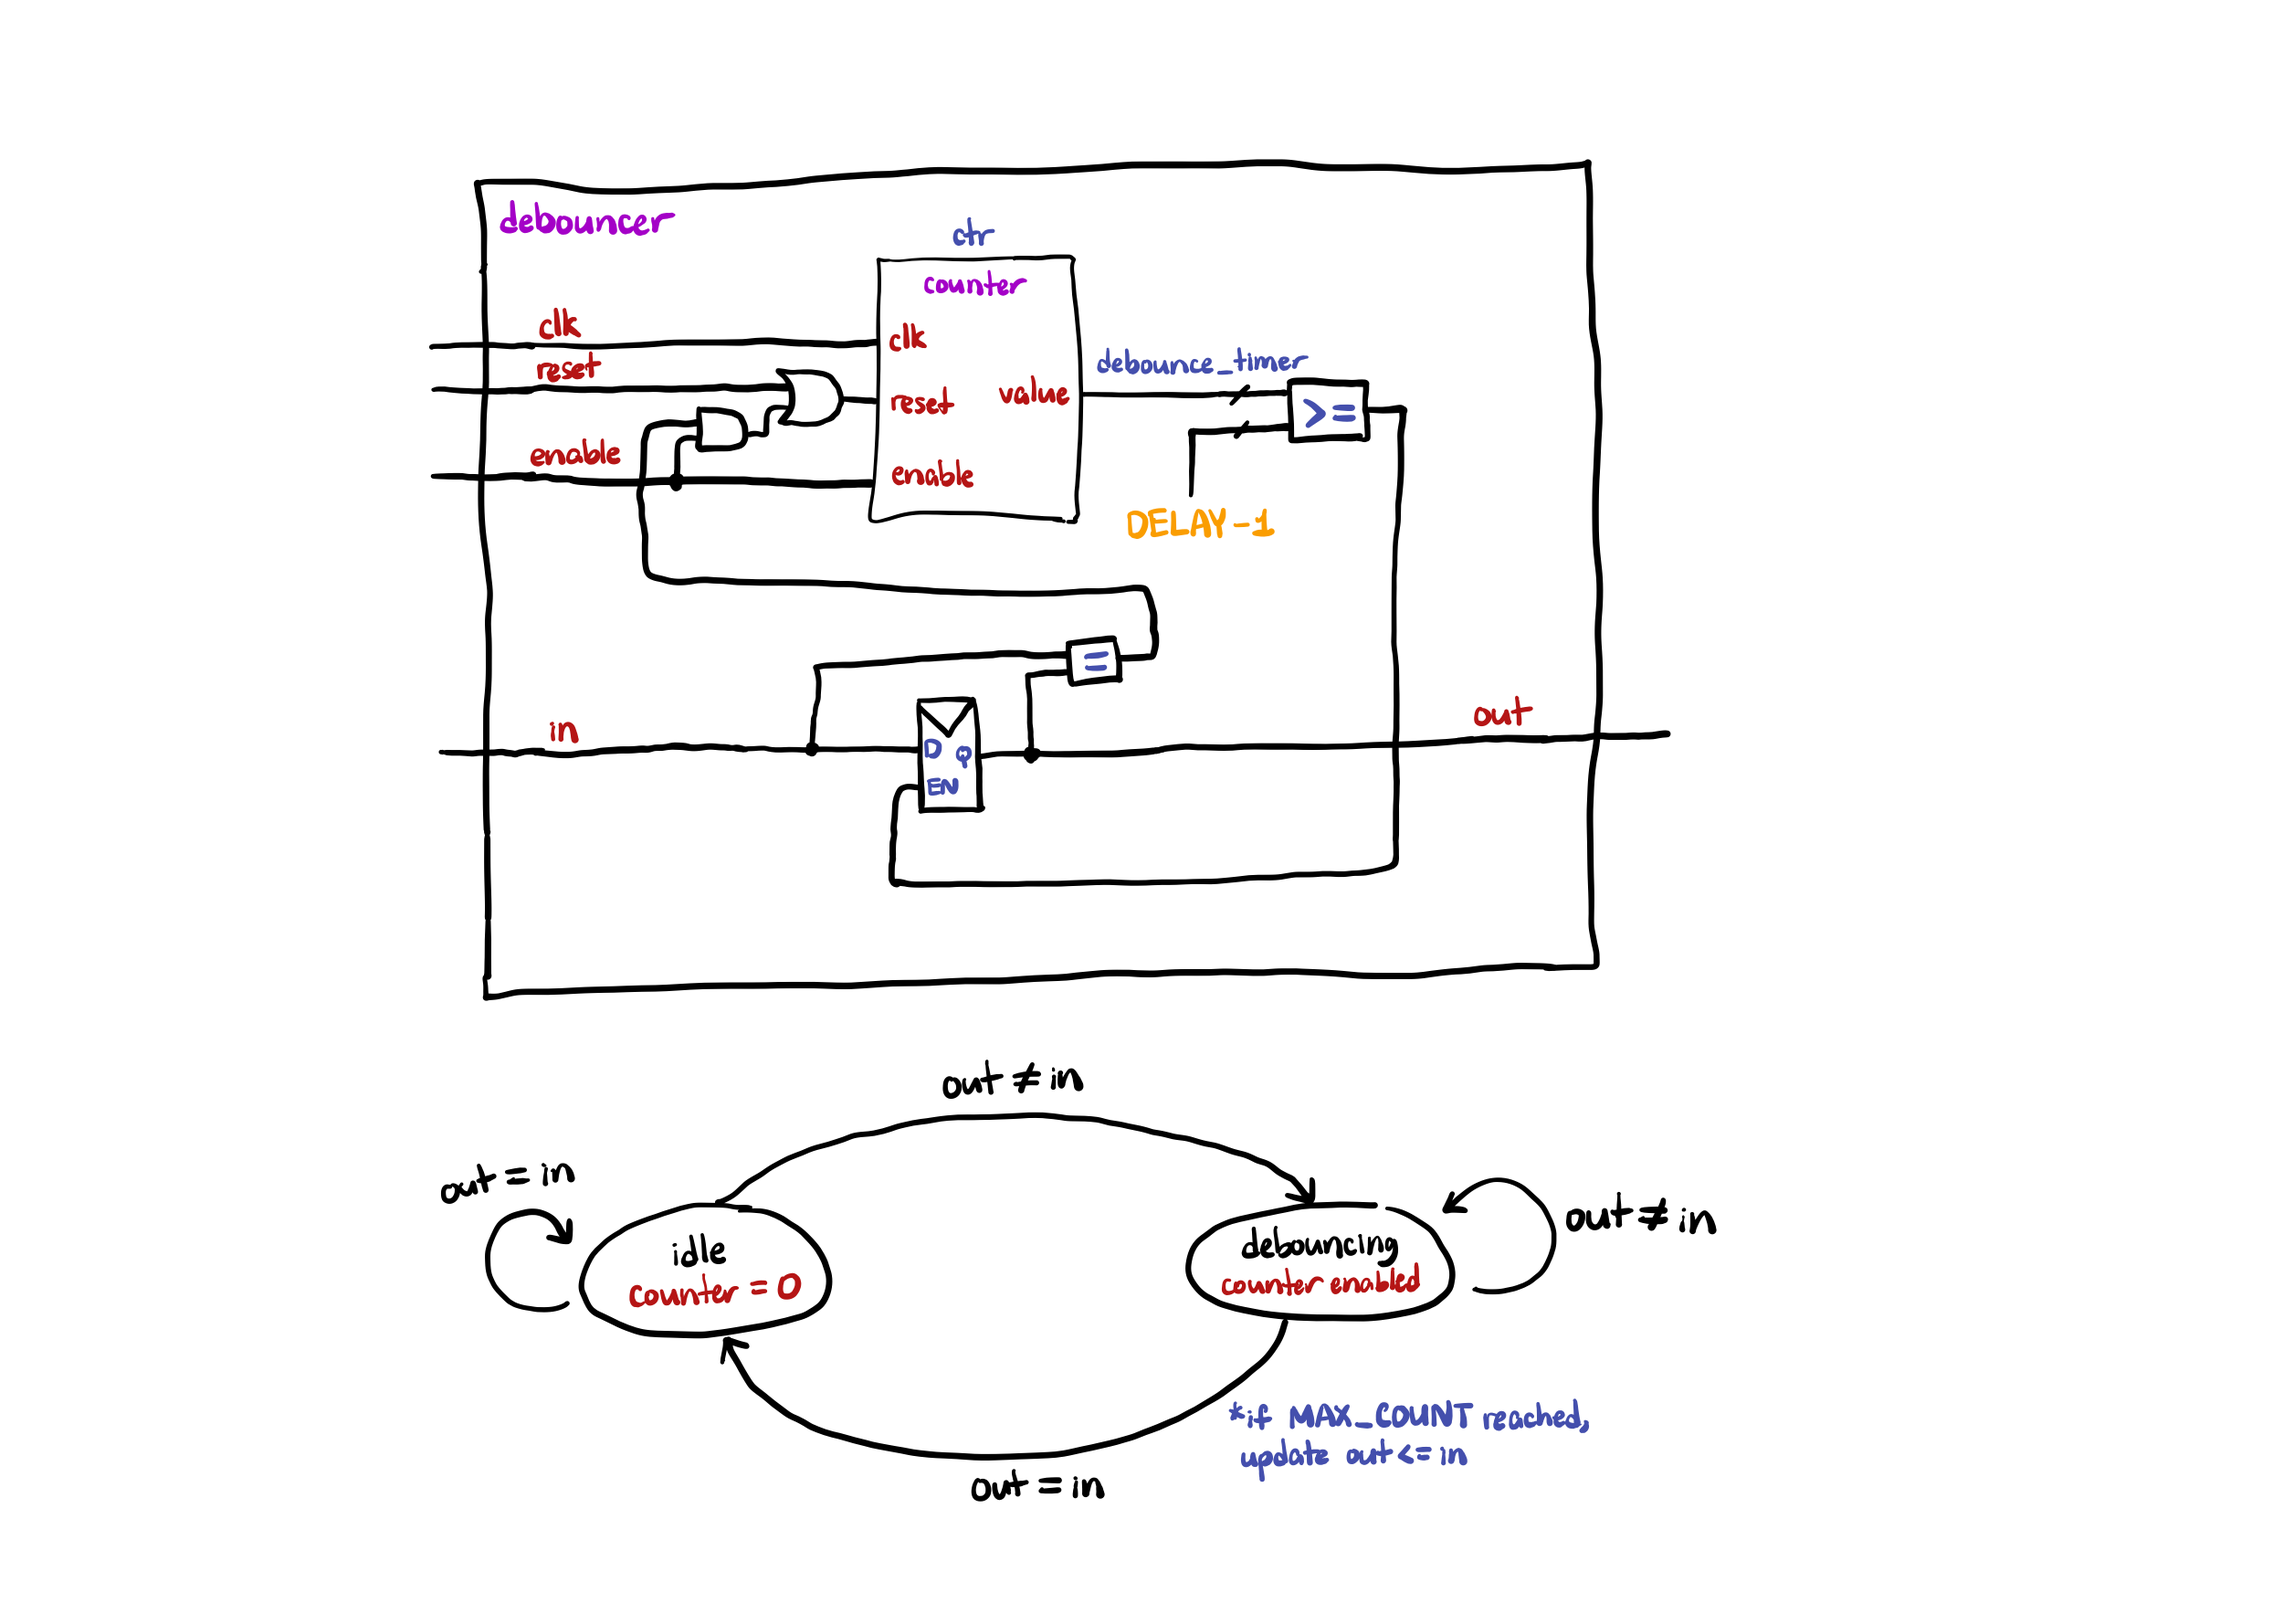
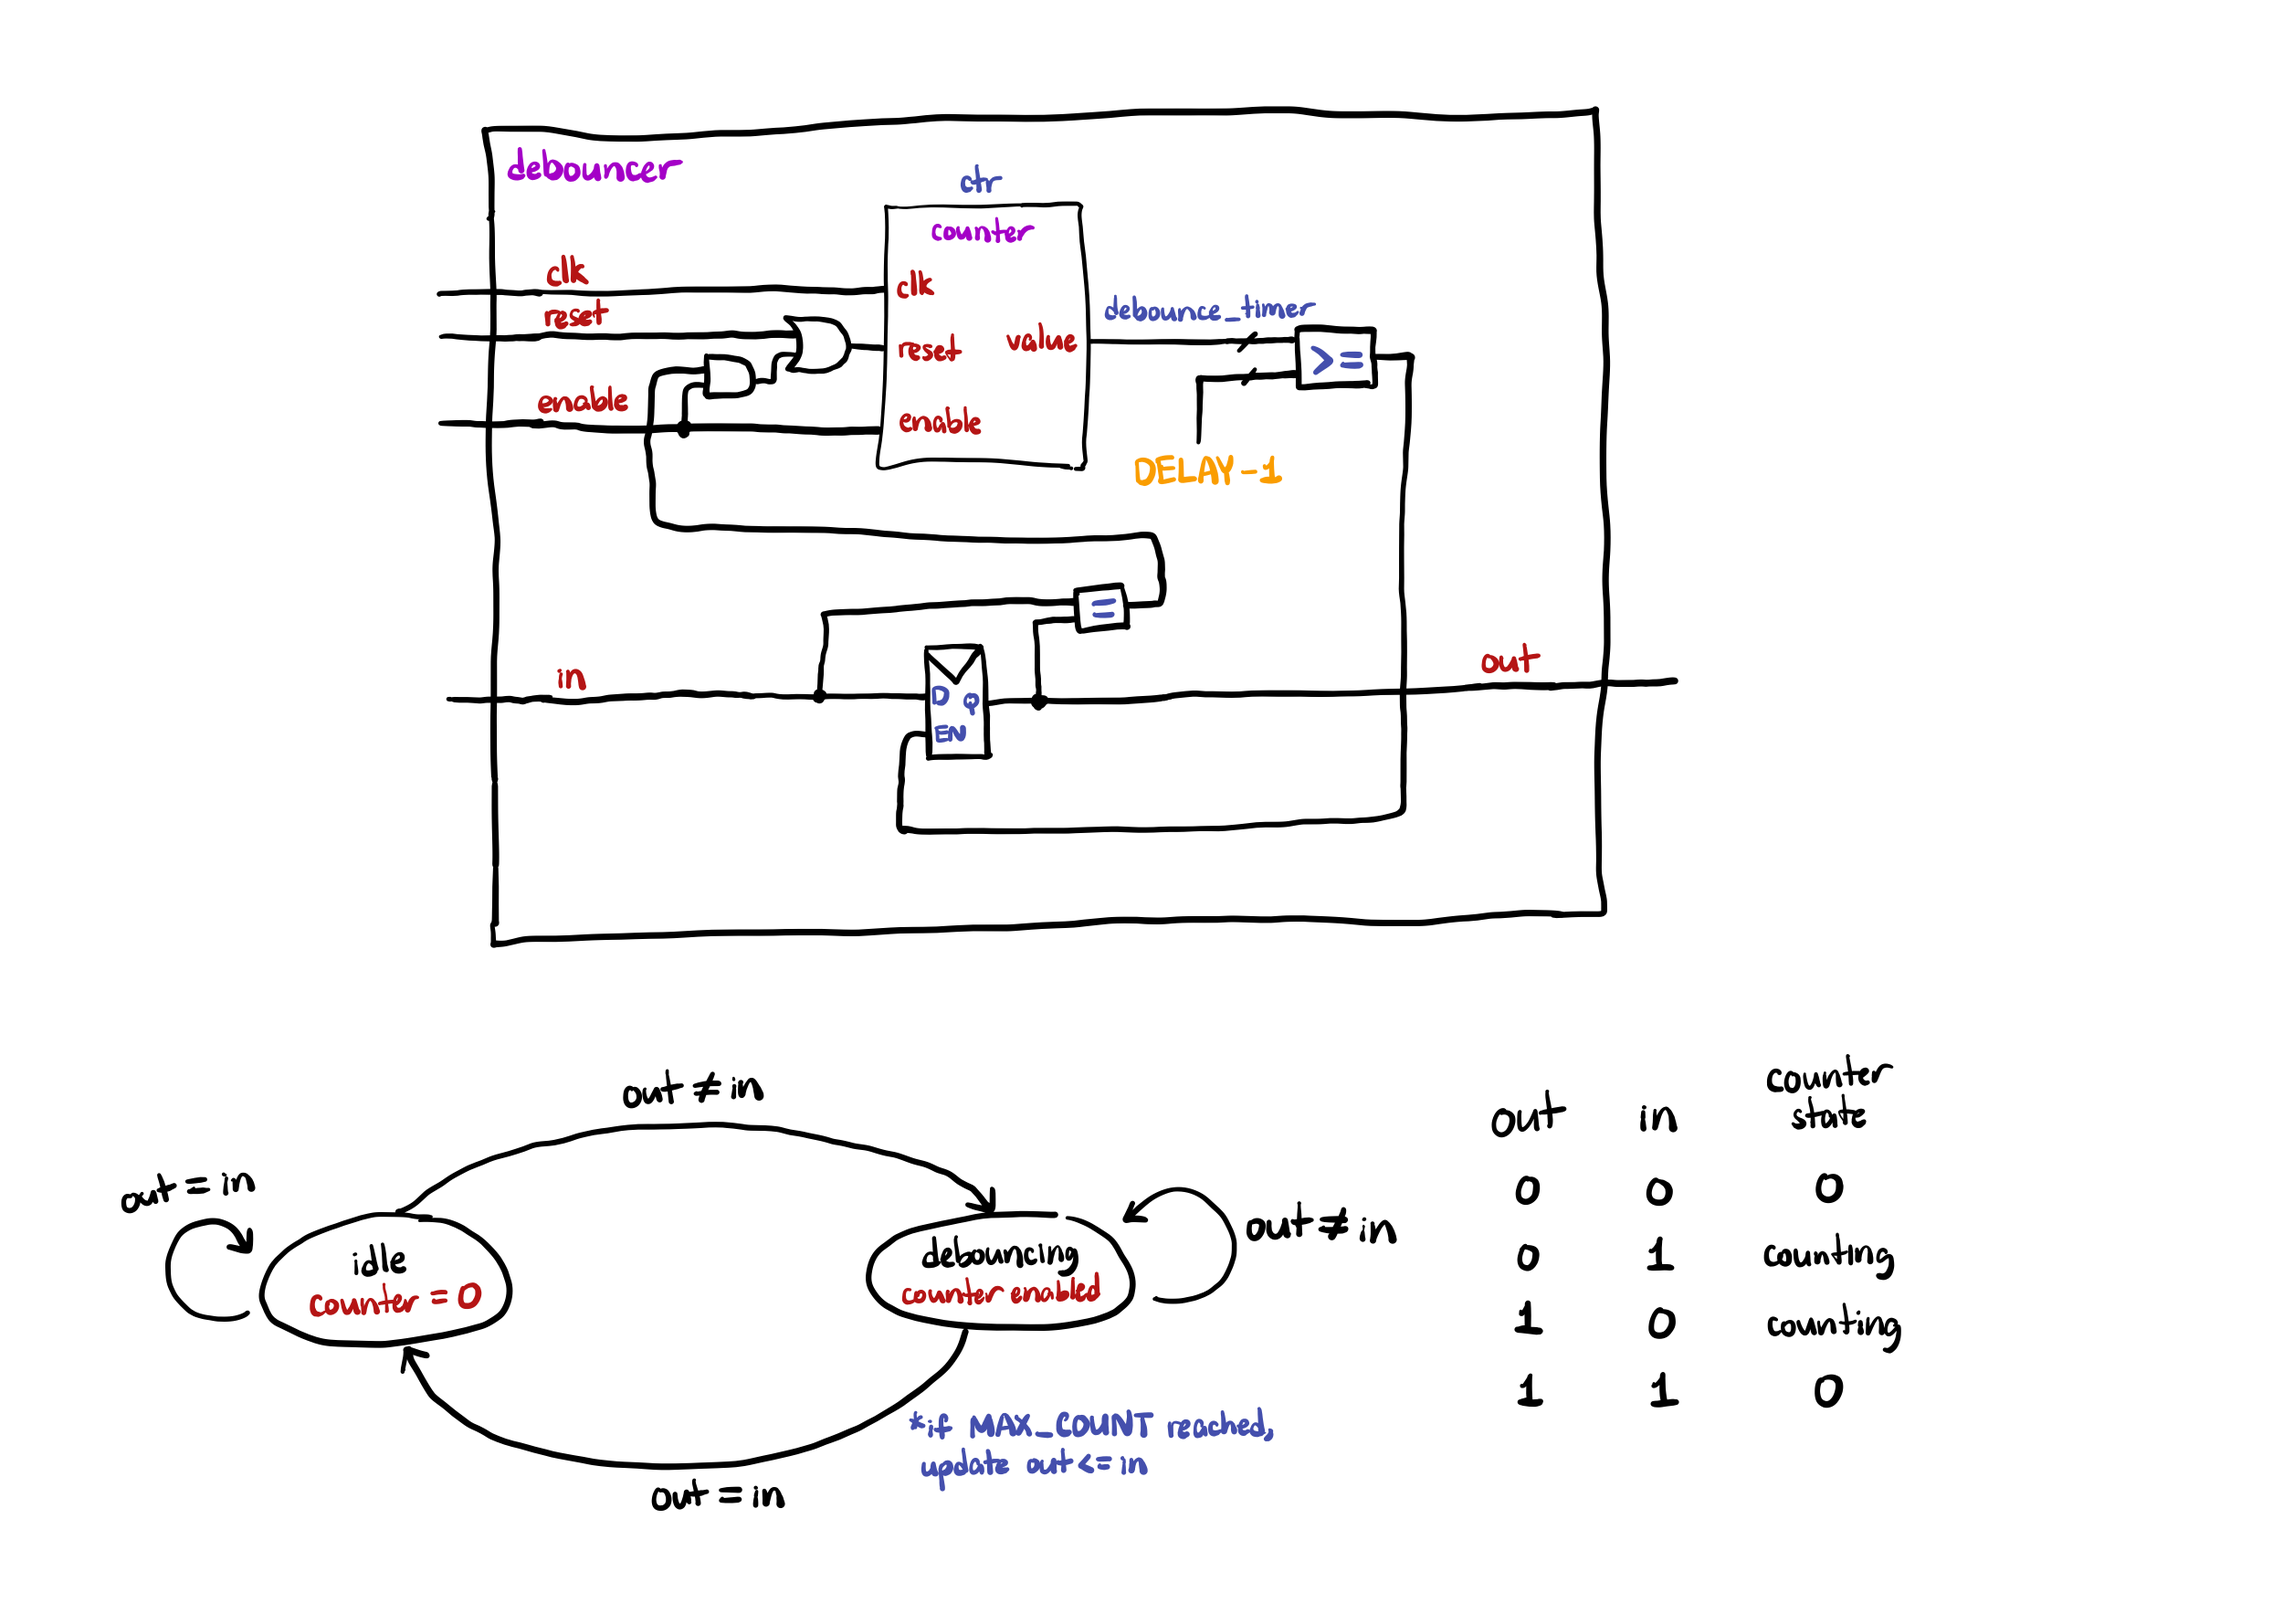
Built site for gh-pages

diff --git a/labs/lab-3/index.html b/labs/lab-3/index.html
@@ -197,7 +197,7 @@ pre > code.sourceCode > span > a:first-child::before { text-decoration: underlin
   <li><a href="#switch-debouncing" id="toc-switch-debouncing" class="nav-link" data-scroll-target="#switch-debouncing">Switch Debouncing</a></li>
   <li><a href="#fsm-design-strategy" id="toc-fsm-design-strategy" class="nav-link" data-scroll-target="#fsm-design-strategy">FSM Design Strategy</a></li>
   </ul></li>
-  <li><a href="#block-diagrams" id="toc-block-diagrams" class="nav-link" data-scroll-target="#block-diagrams">Block Diagrams</a>
+  <li><a href="#block-diagrams-and-fsms" id="toc-block-diagrams-and-fsms" class="nav-link" data-scroll-target="#block-diagrams-and-fsms">Block Diagrams and FSMs</a>
   <ul>
   <li><a href="#top-level" id="toc-top-level" class="nav-link" data-scroll-target="#top-level">Top-Level</a></li>
   <li><a href="#debouncer" id="toc-debouncer" class="nav-link" data-scroll-target="#debouncer">Debouncer</a></li>
@@ -307,11 +307,12 @@ pre > code.sourceCode > span > a:first-child::before { text-decoration: underlin
 </ul>
 </section>
 </section>
-<section id="block-diagrams" class="level2">
-<h2 class="anchored" data-anchor-id="block-diagrams">Block Diagrams</h2>
+<section id="block-diagrams-and-fsms" class="level2">
+<h2 class="anchored" data-anchor-id="block-diagrams-and-fsms">Block Diagrams and FSMs</h2>
 <section id="top-level" class="level3">
 <h3 class="anchored" data-anchor-id="top-level">Top-Level</h3>
 <p><img src="media/block-diagram-top.png" class="img-fluid"></p>
+<p><img src="media/fsm-top.png" class="img-fluid"></p>
 <hr>
 </section>
 <section id="debouncer" class="level3">
@@ -322,11 +323,13 @@ pre > code.sourceCode > span > a:first-child::before { text-decoration: underlin
 <section id="keypad" class="level3">
 <h3 class="anchored" data-anchor-id="keypad">Keypad</h3>
 <p><img src="media/block-diagram-keypad.png" class="img-fluid"></p>
+<p><img src="media/fsm-keypad.png" class="img-fluid"></p>
 <hr>
 </section>
 <section id="keypad-entry" class="level3">
 <h3 class="anchored" data-anchor-id="keypad-entry">Keypad Entry</h3>
 <p><img src="media/block-diagram-keypad-entry.png" class="img-fluid"></p>
+<p><img src="media/fsm-keypad-entry.png" class="img-fluid"></p>
 <hr>
 </section>
 <section id="keypad-multipress-handler" class="level3">
